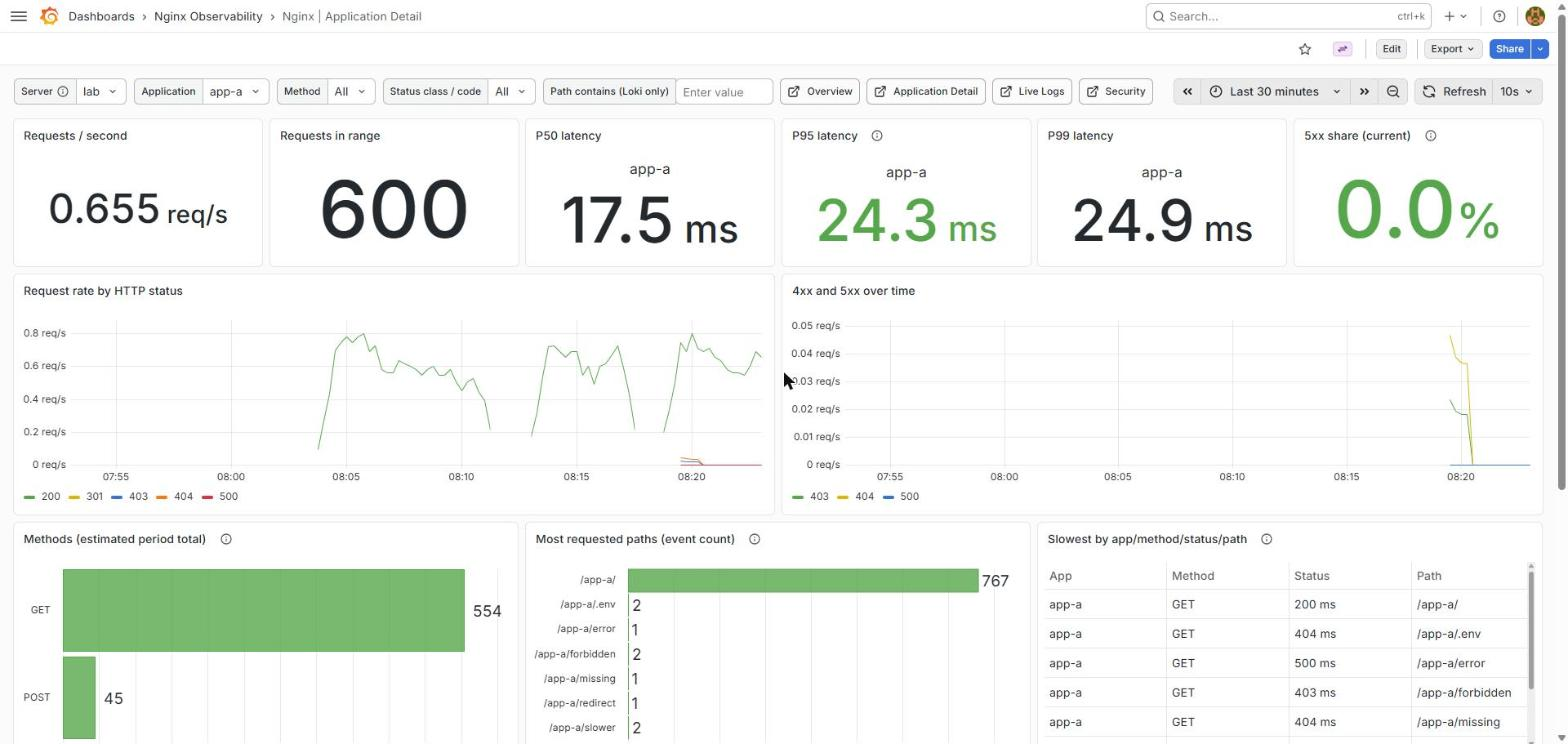
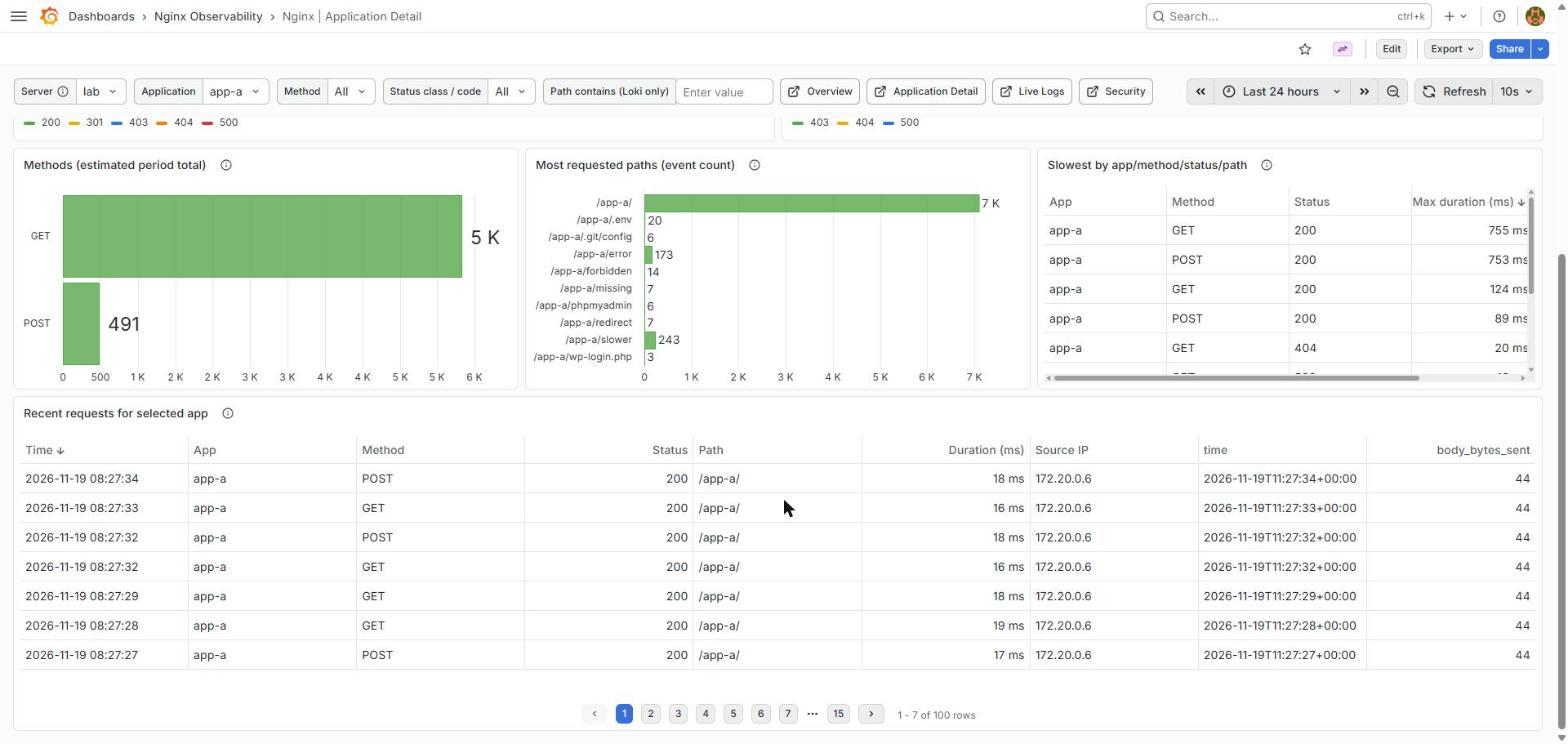
fix: make dashboard tables readable
Found in the Chrome visual review:

- The slowest-request table had a default "ms" unit, so Status showed
  "200 ms"; the unit now applies only to the duration column, which is
  ordered before the long path.
- Security's scanner-path and repeated-origin bar charts labelled bars
  only by app. They are now tables (App / Path / Events and App /
  Source IP / 4xx-5xx events) sorted by count. Grafana names the merged
  value field "Value #A", so both names are renamed.
- Live Logs now states its real 5s refresh.

Screenshots of Application Detail and Security are retaken after the
fix. Tests require the duration-only unit and the Security tables.

diff --git a/tests/verify_pipeline.py b/tests/verify_pipeline.py
@@ -718,6 +718,12 @@ def verify_security_dashboard(dashboard):
     assert all(path in scanner_expr for path in (".env", ".git", "wp-admin", "wp-login", "phpmyadmin", "/etc/passwd"))
     assert "not proof of an attack" in scanner["description"] and "query errors are reported separately" in scanner["description"]
 
+    for title, column in (("Observed scanner-like paths", "path"), ("Origins with repeated 4xx / 5xx (by app)", "remote_addr")):
+        table = panels[title]
+        assert table["type"] == "table", f"{title} must show what each row is, not bars labelled only by app"
+        organize = next(item for item in table["transformations"] if item["id"] == "organize")["options"]
+        assert column in organize["indexByName"] and "app" in organize["indexByName"], (title, organize)
+
     origins = panels["Origins with repeated 4xx / 5xx (by app)"]
     origin_expr = origins["targets"][0]["expr"]
     assert "$__range" in origin_expr, "Repeated origins must use the dashboard-selected time range"
@@ -994,7 +1000,10 @@ def verify_application_detail(dashboard):
     slow_expr = grafana_query_expression(slow["targets"][0]["expr"])
     assert slow["targets"][0].get("queryType") == "instant"
     assert "topk(10," in slow["targets"][0]["expr"] and "1000 *" in slow["targets"][0]["expr"]
-    assert slow["fieldConfig"]["defaults"].get("unit") == "ms" and slow["fieldConfig"]["defaults"].get("decimals") == 0
+    # Only the duration column is in ms; a default unit also turned Status into "200 ms".
+    assert "unit" not in slow["fieldConfig"]["defaults"], "Slowest table must not apply ms to every column"
+    duration = next(item for item in slow["fieldConfig"]["overrides"] if item["matcher"]["options"] == "Max duration (ms)")
+    assert {item["id"]: item["value"] for item in duration["properties"]} == {"unit": "ms", "decimals": 0}
     assert "top 10" in slow.get("description", "") and "descending" in slow.get("description", "")
     slow_transform_ids = [item.get("id") for item in slow.get("transformations", [])]
     assert slow_transform_ids == ["merge", "sortBy", "organize"], slow_transform_ids

diff --git a/docs/dashboard-audit.md b/docs/dashboard-audit.md
@@ -62,7 +62,7 @@ As cinco lacunas foram tratadas com quatro dashboards provisionados e seleção 
 
 Capturas feitas no Chrome em 1440×900, com `Server = lab`: [Overview](screenshots/overview.jpg), [Application Detail](screenshots/application-detail.jpg), [Live Logs](screenshots/live-logs.jpg) e [Security](screenshots/security.jpg). Confirmam a faixa de saúde, a lista de alertas, as cores por limite, a variável Server e os indicadores com consulta instantânea.
 
-Defeitos visuais encontrados (abertos):
+Defeitos visuais encontrados — **corrigidos no mesmo dia** (tabela Slowest com `ms` só na duração e coluna de duração antes do path; painéis do Security convertidos em tabelas App/Path/Events e App/Source IP/4xx-5xx events, ordenadas por contagem; texto e refresh do Live Logs em 5 s). As capturas de Application Detail e Security foram refeitas depois da correção:
 
 1. **Application Detail — "Slowest by app/method/status/path":** a unidade `ms` do campo de duração também é aplicada à coluna **Status** (`200 ms`, `404 ms`); a coluna de duração fica fora da área visível do painel.
 2. **Security — "Observed scanner-like paths" e "Origins with repeated 4xx / 5xx":** as barras mostram apenas a aplicação (`app-a` repetido), sem o path ou o IP de origem, o que impede saber qual caminho ou origem cada barra representa.

diff --git a/CHANGELOG.md b/CHANGELOG.md
@@ -21,6 +21,10 @@ All notable changes to Nginx Observability are documented here.
 - Security's 403/404/5xx rate stats show 0 while traffic is collected but none of those responses occurred, instead of "No samples".
 - HTTP 5xx and latency alerts treat missing data as OK: their per-app limits exist only while the exporter reports traffic, and an exporter outage is already signalled by its own alert, so the outage no longer adds four NoData alerts.
 
+- Application Detail's slowest-request table applied `ms` to every column (Status showed `200 ms`); the unit now applies only to the duration column, which is shown before the path.
+- Security's scanner-path and repeated-origin panels labelled bars only by application; they are now tables with App / Path / Events and App / Source IP / 4xx-5xx events, sorted by count.
+- Live Logs states its real 5 s refresh (Grafana's minimum) instead of 2 s.
+
 ### Added
 
 - GitHub Actions workflow that rebuilds Loki v3.7.10 with Go 1.26.11 and the upstream WAL fix (grafana/loki#25118), using Loki's own Dockerfile; it tests the fix, checks the Go version, scans with Trivy and publishes to GHCR only on a manual run.
